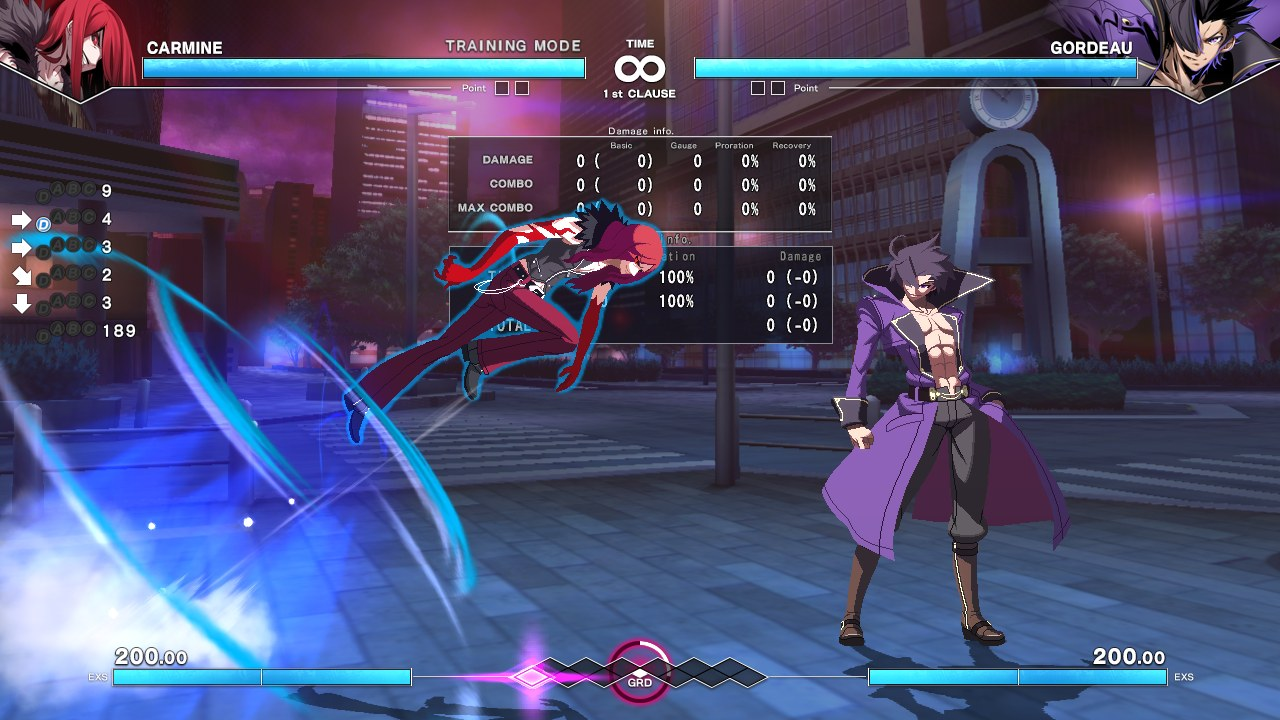
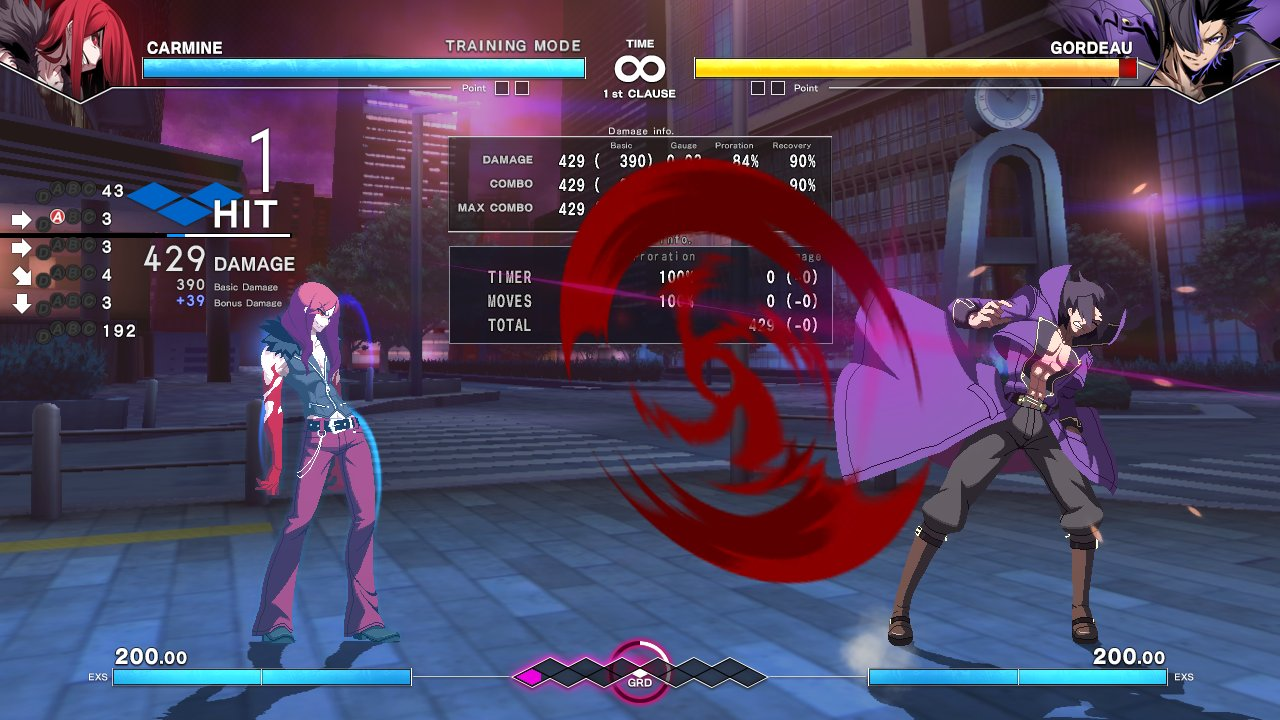
showcase: prove the chr003 .pat texture edit in game with 236+A (pad X = game A); cgmtex users/effects, hue_shift --rect

diff --git a/tools/cg/hue_shift.py b/tools/cg/hue_shift.py
@@ -7,6 +7,7 @@
   --idx 8-12,31-40   act only: shift only these palette entries (what a modder selects in the swatch grid), band still applies
   --colorize H S     png only: grey pixels (saturation < smin, alpha > 0) get hue H and saturation S, value kept (a grey
                      texture that the game tints with a palette slot)
+  --rect X Y W H     png only, repeatable: change only pixels inside these rectangles (a .pat cutout's texel area)
 
 A pixel / colour is shifted when its saturation >= smin and its hue (degrees) lies in [LO, HI] (LO > HI wraps through 0).
 Shifted: H += shift, S *= satmul (clamped), V *= valmul (clamped). Value (shading, line art) and alpha are never touched
@@ -30,6 +31,7 @@ def main():
     p.add_argument("--band", nargs=2, type=float, default=[0, 360]); p.add_argument("--shift", type=float, default=0)
     p.add_argument("--smin", type=float, default=0.2); p.add_argument("--satmul", type=float, default=1); p.add_argument("--valmul", type=float, default=1)
     p.add_argument("--idx", default=""); p.add_argument("--colorize", nargs=2, type=float)
+    p.add_argument("--rect", nargs=4, type=int, action="append", default=[])
     a = p.parse_args()
     if a.mode == "hist":
         if a.inp.endswith(".act"):
@@ -55,9 +57,10 @@ def main():
             if o: d[i:i + 3] = bytes(o); n += 1
         open(a.out, "wb").write(d)
     else:
-        im = Image.open(a.inp).convert("RGBA"); px = list(im.getdata()); cache = {}
+        im = Image.open(a.inp).convert("RGBA"); px = list(im.getdata()); cache = {}; W = im.width
+        inside = lambda k: not a.rect or any(x <= k % W < x + w and y <= k // W < y + h for x, y, w, h in a.rect)
         for k, (r, g, b, al) in enumerate(px):
-            if not al: continue
+            if not al or not inside(k): continue
             key = (r, g, b)
             if key not in cache: cache[key] = shift_rgb(r, g, b, a)
             o = cache[key]

diff --git a/src/cgm/cgmtex.cpp b/src/cgm/cgmtex.cpp
@@ -308,10 +308,17 @@ static int RealMain(int argc, char **argv) {
 		Opened o; std::string err; if (!Open(argv[3], o, err)) { printf("error: %s\n", err.c_str()); return 1; }
 		const int id = atoi(argv[4]);
 		for (auto &u : o.bank ? cgm::CgImageUsers(fd, id) : cgm::PatTextureUsers(*o.parts, id, &fd)) {
-			if (u.pattern >= 0) printf("pattern %d frame %d layer %d part-set %d\n", u.pattern, u.frame, u.layer, u.partSet);
+			if (u.pattern >= 0) { Sequence *q = fd.get_sequence(u.pattern); printf("pattern %d frame %d layer %d part-set %d %s|%s\n", u.pattern, u.frame, u.layer, u.partSet, q ? q->name.c_str() : "", q ? q->codeName.c_str() : ""); }
 			else if (u.partSet >= 0) printf("part-set %d part %d\n", u.partSet, u.part);
 			else printf("part %d\n", u.part);
 		}
+		return 0;
+	}
+	if (c == "effects" && argc >= 3) {   // effects <x.ha6>: every frame effect (pattern frame type number p0 p1 p2), to find what spawns a pattern
+		FrameData fd; if (!fd.load(argv[2])) return 1;
+		for (int p = 0; p < fd.get_sequence_count(); p++) { Sequence *q = fd.get_sequence(p); if (!q) continue;
+			for (size_t f = 0; f < q->frames.size(); f++) for (auto &e : q->frames[f].EF)
+				printf("%d %zu %d %d %d %d %d %s\n", p, f, e.type, e.number, e.parameters[0], e.parameters[1], e.parameters[2], q->codeName.c_str()); }
 		return 0;
 	}
 	if (c == "list" && argc >= 3) {

diff --git a/docs/showcase_2026-10-16/README.md b/docs/showcase_2026-10-16/README.md
@@ -75,7 +75,10 @@ real input) and `tools/cg/hue_shift.py` does the recolour. fbmod boots [boot] tr
 The files are installed in `<game>\<IM>\Mods\data\chr003\` only inside gamecap's game lock (`tools/cg/showcase_ingame_boot.sh`)
 and restored afterwards. The Mods\data folders were empty before and after, and UNI2_IM.ini / MBTL_IM.ini are byte-identical (md5).
 The shots are window-only gamecap captures shrunk to 1280x720: `<game>_{before,after}_idle.jpg` and `<game>_{before,after}_move.jpg`.
-The move is 236+A (pad_down/pad_up DOWN, RIGHT, then pad_tap A), shown 6 frames after the button.
+The move is 236+A: pad_down/pad_up DOWN, RIGHT, then pad_tap **X**, which is the game's A button on the default pad layout. Pad A is
+the game's D button, so the first take on 2026-10-16 ran 236+D (Shield) by mistake, and that shield effect comes from the shared bank.
+The move pair was retaken with the fix (`tools/cg/showcase_ingame_boot.sh <game> <out> X ...`). The idle pair is from the first
+take, with the same palette.
 
 - **Export.** "CG + .pat textures" tab > Export PNG of pattern 0's images (UNI2: 36, MBTL: 21) and of one .pat texture. Palettes tab >
   Export colours (.act) of chr003.pal palette 0. Every pattern-0 sprite is 8-bit (bank palette), so its colour lives in the .pal.
@@ -83,20 +86,32 @@ The move is 236+A (pad_down/pad_up DOWN, RIGHT, then pad_tap A), shown 6 frames 
 - **UNI2 Carmine, red to deep teal.** chr003.pal palette 0, entries 8-12, 31-40, 48-53, 114-120 and 251 (coat, hair and the red
   tint slots): hue **+185 deg**, with saturation and value kept. Entries 240-245 (blue effect tint slots): hue **-40 deg**. Skin
   (2-7), greys, black line art and the other 129 palettes are unchanged; 35 of 256 colours changed. .pat texture 0 `car_ef00.dds`
-  (2048x2048 DXT5) is greyscale, because the game tints it from the palette's PPPA slots. Its grey pixels were colourised to hue
-  185 deg, saturation 0.35, with value and alpha kept.
+  (2048x2048 DXT5) is greyscale, because the game tints it from the palette's PPPA slots. Every grey pixel was colourised to hue
+  **165 deg (sea green), saturation 0.6**, with value and alpha kept (902,305 px; `hue_shift.py png ... --colorize 165 0.6`).
 - **MBTL Shiki, navy to dark crimson.** chr003.pal palette 0: every entry below 240 with hue 200-245 deg and saturation >= 0.2 (the
   uniform and hair shading, plus entry 15, the light-blue eye highlight): hue **+125 deg**, with S, V and alpha kept; 52 colours
   changed. The fx slots 241-249 are unchanged. .pat texture 1 `chr003_0.dds` (2048x2048 DXT5): pixels with hue 160-220 deg and
   saturation >= 0.2 (the blue slashes) get hue **+150 deg**, with V and alpha kept (224,060 px). The red parts are unchanged.
+  The white slash-trail cutouts that 236A draws (cutout 56, texels 832,0 64x448, and cutout 21, texels 0,896 192x896) were then
+  colourised to hue **348 deg (crimson), saturation 0.7**, with V and alpha kept (120,630 px; `--colorize 348 0.7 --rect ...`).
 - **Import and save.** Palettes tab > Import colours (the shifted .act) > **Save .pal to mod folder** (new, see below). Then
   "CG + .pat textures" > Import PNG (the shifted texture) > Save to mod folder. The game folder is a scratch folder; the boot
   script installs what the GUI wrote.
-- **Result.** The idle pair shows the full recolour in game. On the move pair, the character's colours change, but the main
-  236A effect does not (UNI2: the blue swirl; MBTL: the blue/purple ring). That effect is drawn from the shared effect bank,
-  not from chr003.pat, so neither the texture edit nor the palette slots reach it. The .pat edit is loaded: the game reads the
-  2.4 MB / 39 MB mod .pat without error. It is not visible in this move, though, and a move that draws car_ef00 /
-  chr003_0 parts is still to be picked.
+- **Which frame draws the .pat texture (from the data).** `cgmtex users <ha6> <pat> <id>` prints the CG manager's "Used by" list
+  (texture > parts > part sets > pattern layers), and `cgmtex effects <ha6>` prints every frame effect (to see what spawns a pattern).
+  - UNI2 Carmine 236A: Mv_Skill_236A (chr003_mv_0.txt, maketmpl_SkillFireRollingCutter) creates an object at FrameID 100 and sets its
+    pattern to `236TamaA` = pattern **136**. Frames 1-21 of 136 draw layer 0 from part sets 70-85, whose cutouts (56, 57, 59, 60, ...)
+    sample texture 0 `car_ef00.dds` with PPPA colour slot 251. The game multiplies the texel by palette[251] (vanilla (255,0,0), red;
+    the palette recolour makes it (0,234,255), cyan). So the blade's hue is texel x slot 251: cyan from the palette alone, and the
+    sea-green cast in `uni2_after_move.jpg` comes from the texture edit. Shot: `move_30` (about 30 frames after the button).
+  - MBTL Shiki 236A = pattern **200** (PTCN "236A"). Frame 5 has a type-1 effect that spawns pattern **210**, whose frames 0-3 draw
+    part sets 648-651. Those place cutouts 56 and 21 from texture 1 `chr003_0.dds` with no colour slot (texel drawn as is), and
+    cutout 22 (the same texels as 21) with fx slot 246 (blue, unchanged). The inner trail of the slash is the untinted texel, now
+    crimson. The outer blue glow is the slot-246 copy, and the hit spark is the shared effect bank. Shots: before `move_06`, after
+    `move_02`; the game's frame timing differed between the two boots, so the frames that match visually were used.
+- **Result.** The move pair shows the .pat texture edit in game: the UNI2 236A blood blade is sea-green teal instead of red, and
+  the MBTL 236A slash has a crimson inner trail instead of white. The first take's "no visible change" was the wrong button (236+D),
+  not the .pat path.
 - **Fix found along the way.** The Palettes tab could only save the .pal in place, and UNI2 / MBTL never read that (they read the
   archive), so a palette recolour could not reach the game from the browser. "Save .pal to mod folder" writes it to the same IM
   mod folder as the tab's .cg / .pat save, using that tab's game and game-folder settings (`Window::modFolderDst`).
